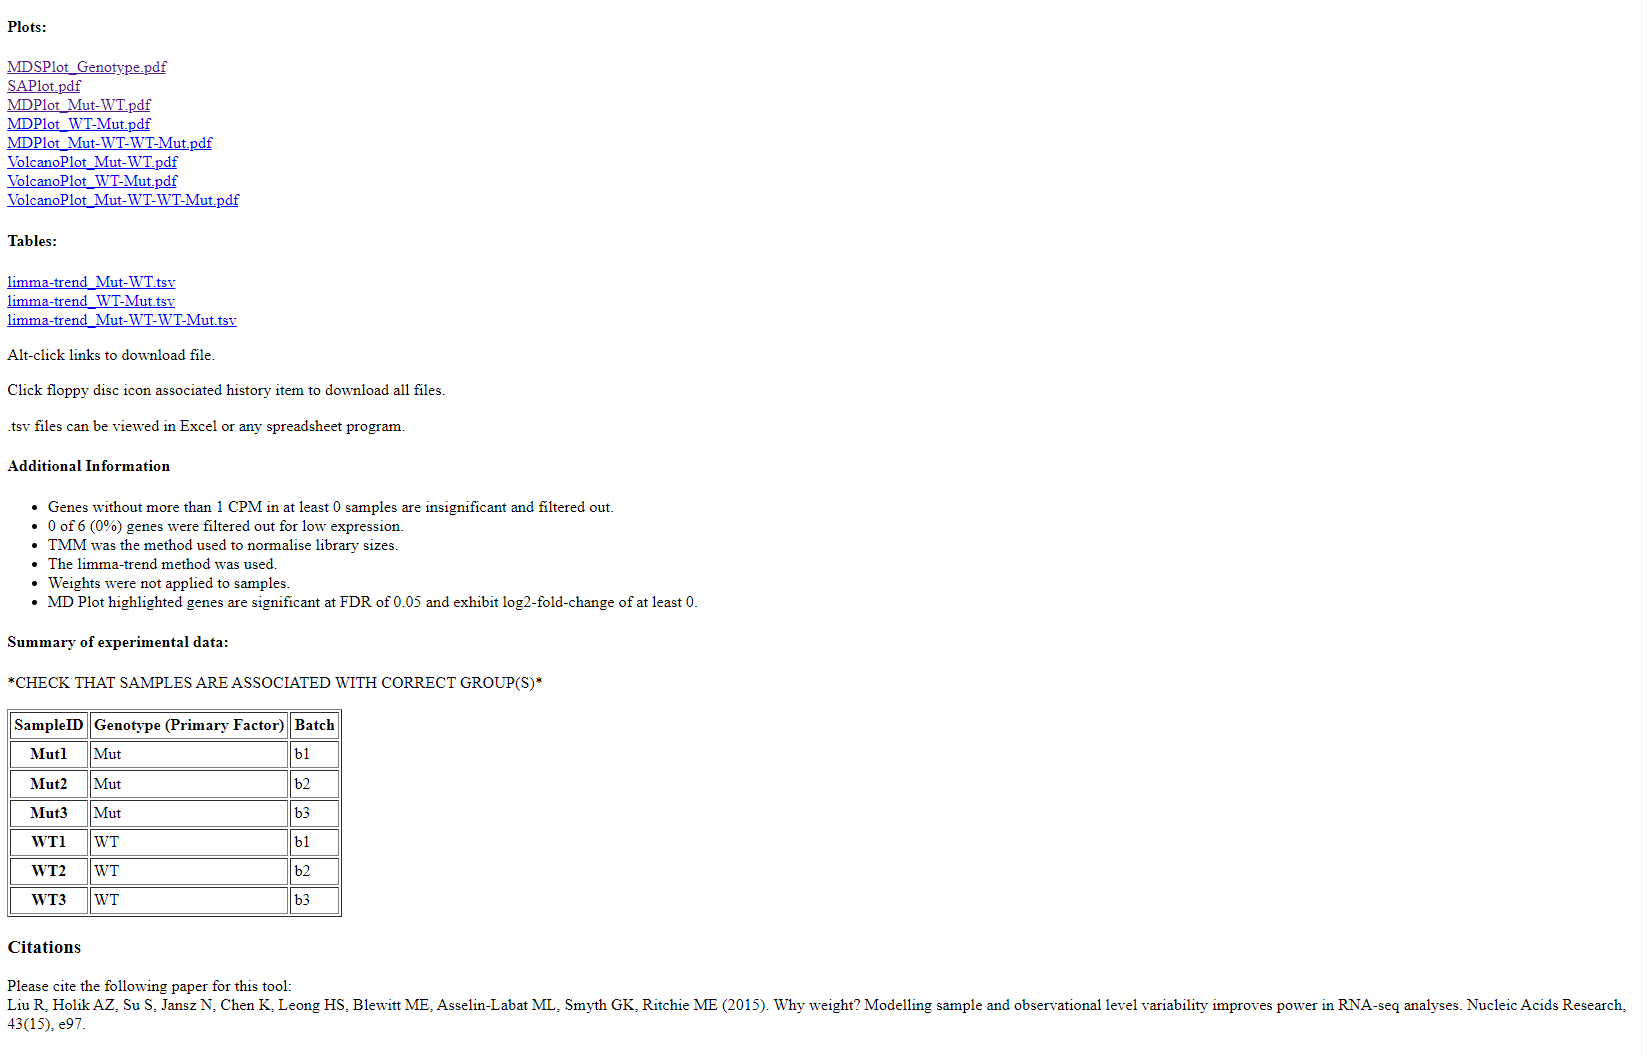
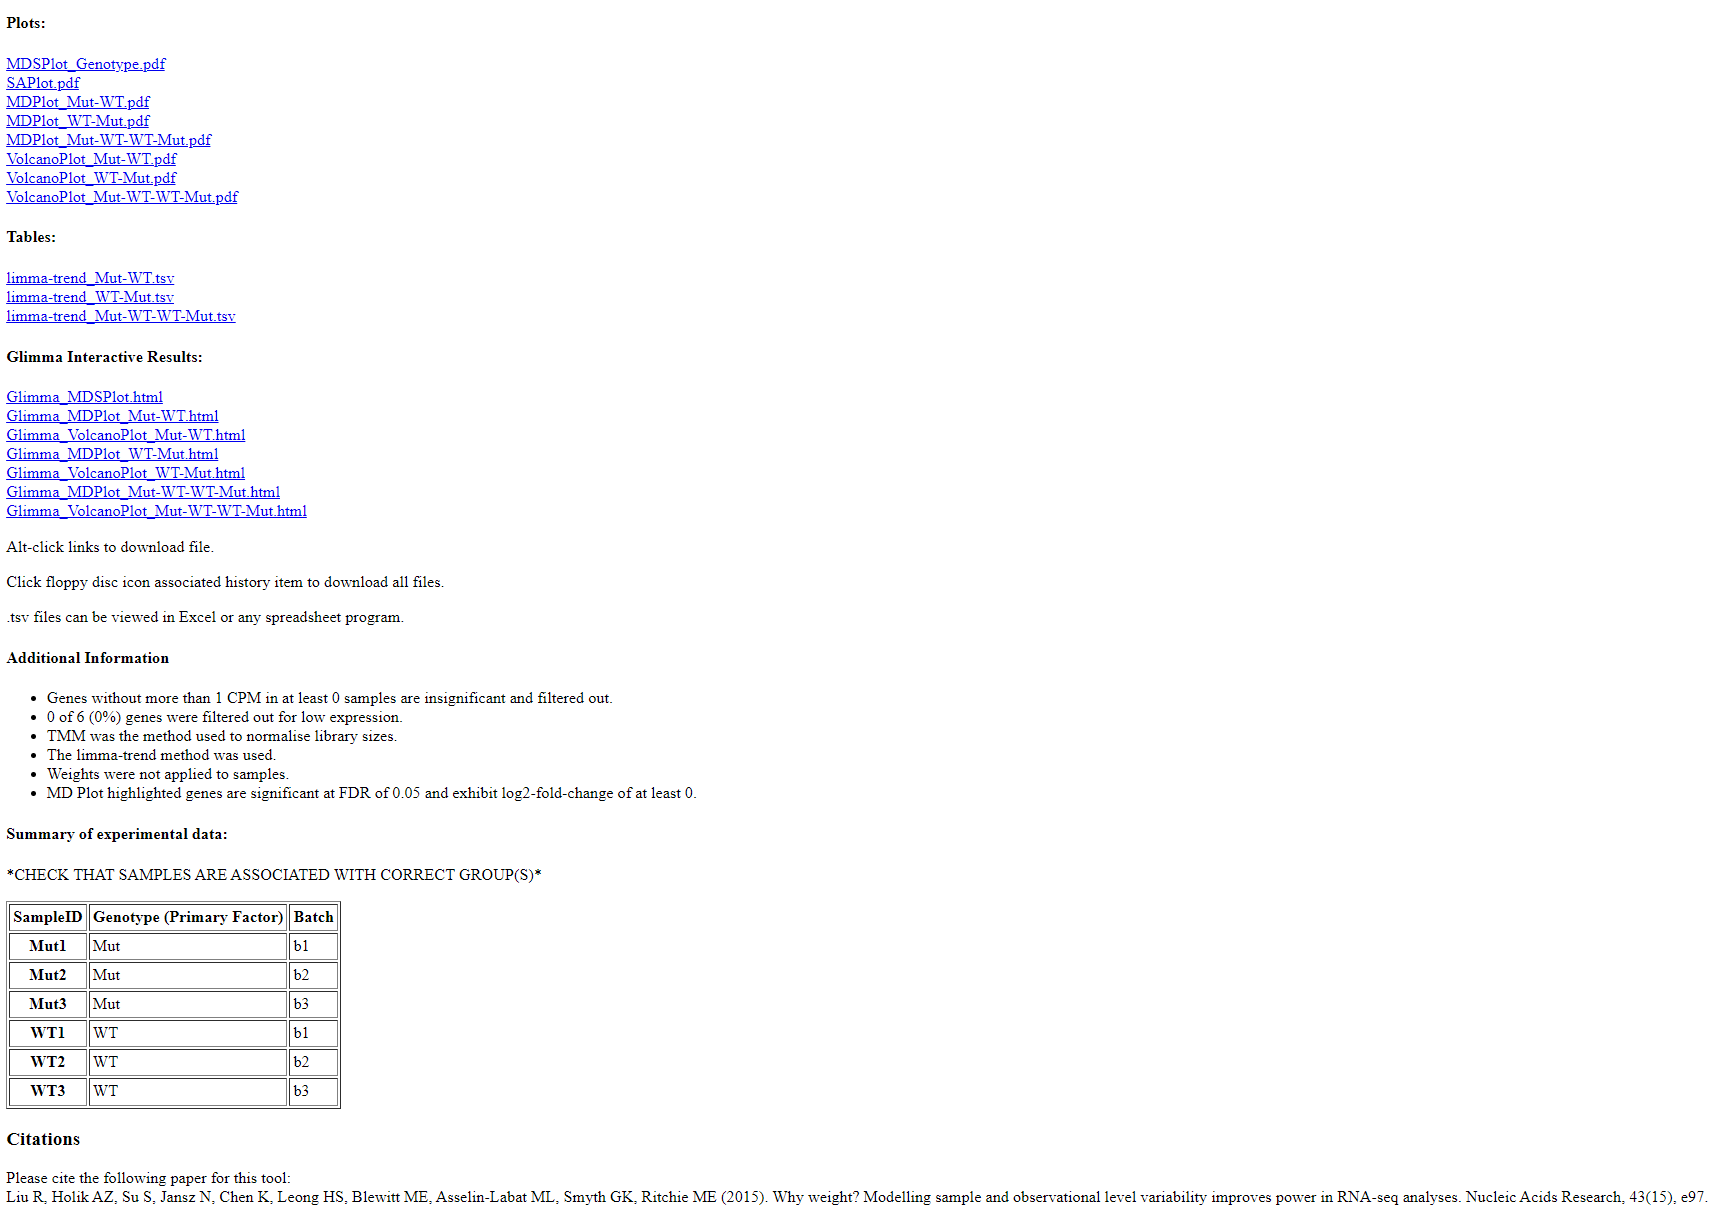
updated limma_voom tutorial

Changed region(s): [[0.0, 0.0, 0.9939, 0.9991]]

diff --git a/galaxy/tools/limma-voom/tutorial.md b/galaxy/tools/limma-voom/tutorial.md
@@ -313,12 +313,7 @@ From reading the documentation, you may have noticed that some arguments aren't 
 We will be using a single input counts file.<br>
 *Remove* this argument. 
 
-*trailing positional*
-
-The final argument has no prefix, and simply has the value `"i"`. <br>
-This is a translation error, as the Rscript doesn't accept any positional arguments. <br>
-*Remove* this argument. 
-
+<br>
 
 **Modifying Outputs**
 
@@ -364,6 +359,7 @@ process LIMMA_VOOM {
     -f ${option_f} \
     -m ${option_m} \
     -G 10 \
+    -P "i" \
     -c 1 \
     -d "BH" \
     -l 0 \
@@ -474,22 +470,33 @@ If needed, you can check the `./final` folder which contains the files we create
 
 `outReport.html` will be a symlink to the work folder where `LIMMA_VOOM` ran.<br> 
 Change to this directory to see the various data and pdfs produced by `LIMMA_VOOM`. <br>
-You should see the following files: 
+You should see the following files & directories: 
 ```
+# directories
+- glimma_MDS
+- glimma_Mut-WT
+- glimma_volcano_Mut-WT
+- glimma_WT-Mut
+- glimma_volcano_WT-Mut
+- glimma_Mut-WT-WT-Mut
+- glimma_volcano_Mut-WT-WT-Mut
+
+# files
+- mdsscree.png
 - mdsscree.pdf
 - saplot.png
 - saplot.pdf
 - limma-trend_Mut-WT.tsv
-- volplot_Mut-WT.pdf
 - mdplot_Mut-WT.pdf
-- volplot_WT-Mut.pdf
+- volplot_Mut-WT.pdf
 - mdvolplot_Mut-WT.png
 - mdplot_WT-Mut.pdf
 - limma-trend_WT-Mut.tsv
-- volplot_Mut-WT-WT-Mut.pdf
+- volplot_WT-Mut.pdf
 - mdvolplot_WT-Mut.png
-- mdplot_Mut-WT-WT-Mut.pdf
 - limma-trend_Mut-WT-WT-Mut.tsv
+- mdplot_Mut-WT-WT-Mut.pdf
+- volplot_Mut-WT-WT-Mut.pdf
 - mdvolplot_Mut-WT-WT-Mut.png
 - session_info.txt
 - outReport.html
@@ -503,9 +510,6 @@ Here is an example of how `outReport.html` should look:
 ![alt text](media/outReport2.PNG)
 ![alt text](media/outReport3.PNG)
 ![alt text](media/outReport4.PNG)
-
-
-
 
 
 <br>
